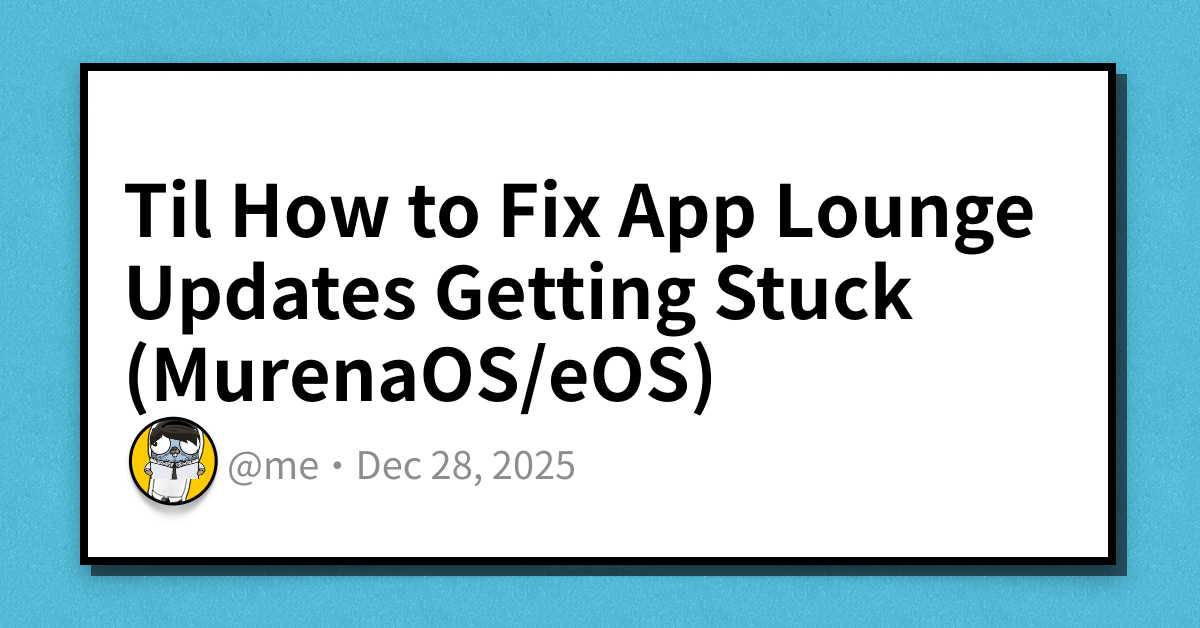
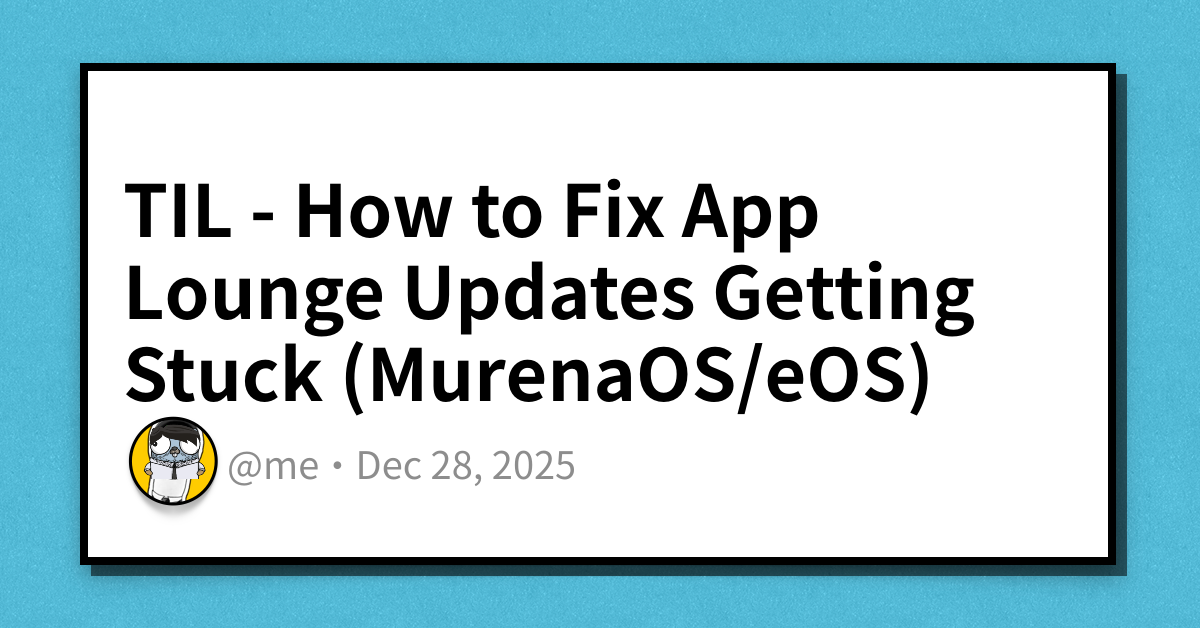
article: til tailscale mullvad

Changed region(s): [[0.0925, 0.2723, 0.8633, 0.6656]]

diff --git a/content/posts/2025-12-29-til-how-to-fix-tailscale-using-mullvad-as-exit-nodes-on-nixos/index.md b/content/posts/2025-12-29-til-how-to-fix-tailscale-using-mullvad-as-exit-nodes-on-nixos/index.md
@@ -1,0 +1,34 @@
+---
+title: TIL - How to Fix Tailscale Using Mullvad as Exit Nodes on NixOS
+date: "2025-12-29"
+canonicalURL: https://haseebmajid.dev/posts/2025-12-29-til-how-to-fix-tailscale-using-mullvad-as-exit-nodes-on-nixos
+tags:
+  - tailscale
+  - mullvad
+  - nixos
+series:
+  - til
+cover:
+  image: images/cover.png
+---
+
+On NixOS when ever I enabled [mullvad](https://tailscale.com/kb/1258/mullvad-exit-nodes) as exit nodes via tailscale (the [trayscale app](https://github.com/DeedleFake/trayscale)).
+My internet would stop working, which was weird as this worked fine on my other devices i.e. Ubuntu or my phone.
+
+Well turns out it seems to be the way NixOS works with the firewall, you can read all the details here [^1]. Where
+the poster explains it really well.
+
+My understanding is the following:
+
+This changes RPF (reverse path filtering) from "strict" to "loose" mode:
+- Strict: Reply must go back out the exact same interface it came in on
+- Loose: Reply can go out any interface, as long as there's a valid route back to the source
+
+
+## Solution
+
+But the fix is enabling this option: `networking.firewall.checkReversePath = "loose";`. Please make sure you understand
+exactly what you are doing when enabling this.
+
+
+[^1]: https://github.com/tailscale/tailscale/issues/4432#issuecomment-1112819111

diff --git a/content/posts/2025-12-28-til-how-to-fix-app-lounge-updates-getting-stuck-murenaos-eos-/index.md b/content/posts/2025-12-28-til-how-to-fix-app-lounge-updates-getting-stuck-murenaos-eos-/index.md
@@ -1,11 +1,10 @@
 ---
-title: Til How to Fix App Lounge Updates Getting Stuck (MurenaOS/eOS)
+title: TIL - How to Fix App Lounge Updates Getting Stuck (MurenaOS/eOS)
 date: "2025-12-28"
 canonicalURL: https://haseebmajid.dev/posts/2025-12-28-til-how-to-fix-app-lounge-updates-getting-stuck-murenaos-eos-
 tags:
   - eos
   - murenaos
-  - til
 series:
   - til
 cover:
